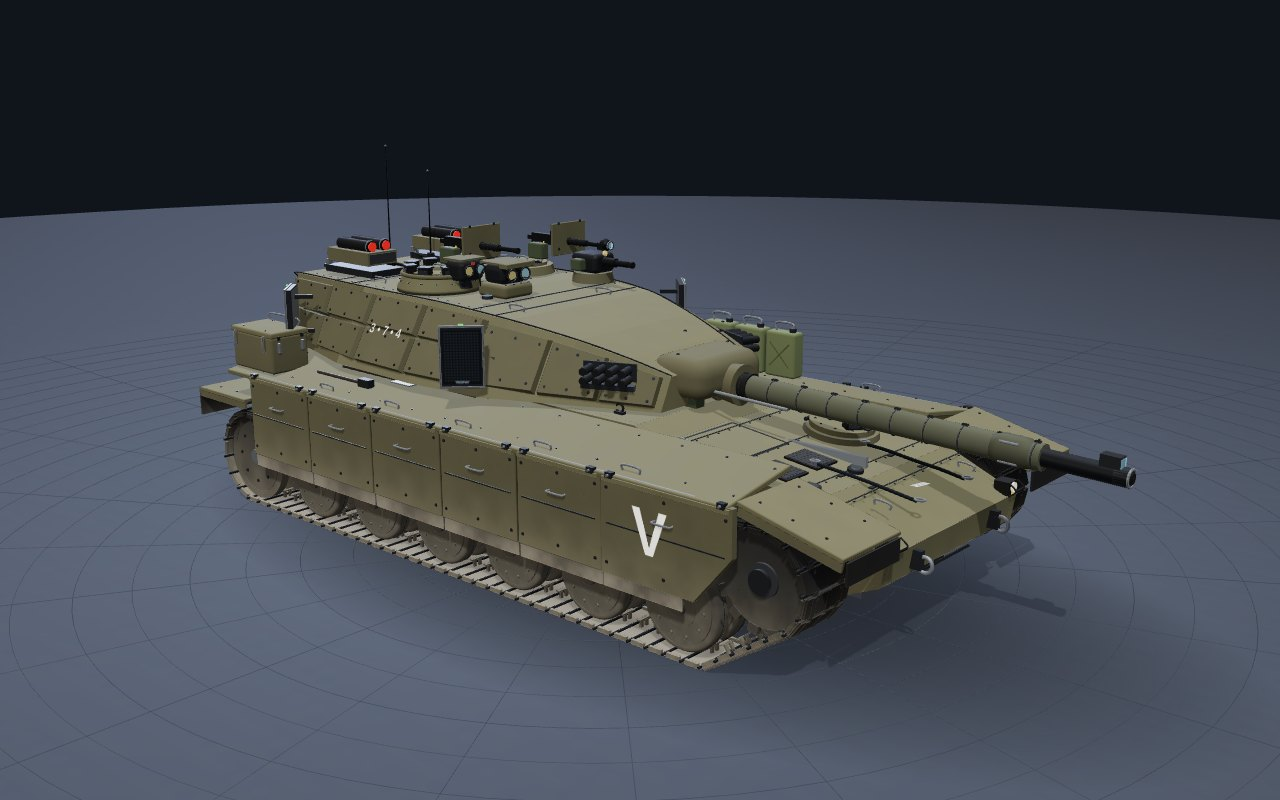
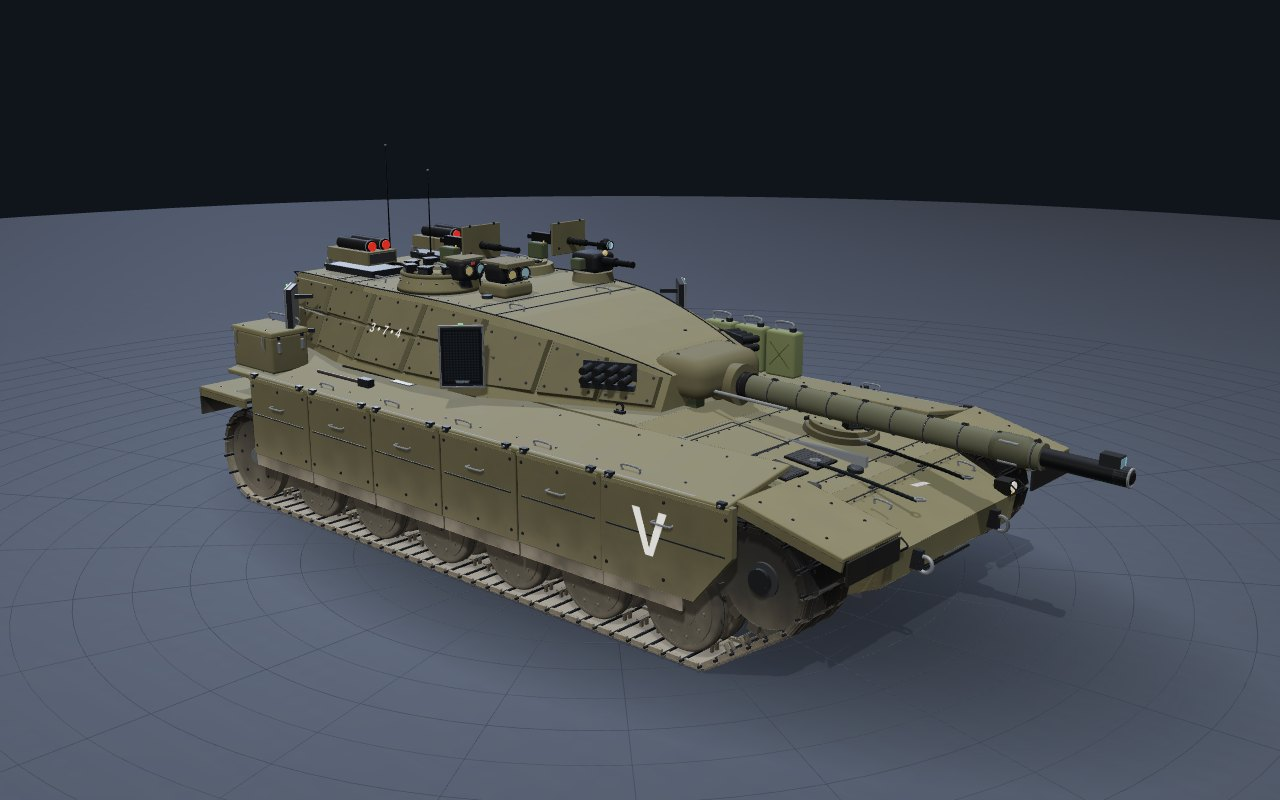
Apply lessons from #004: sanity in build --check, Merkava tracks above ground, Model T steering + patina
- build.py --check runs tools/sanity.cjs per model and fails on stray parts
- Merkava: lift the model root 22 mm so the track pads rest on the ground
- Model T: live steering toggle (king-pin pivot, steering arms, tie rod,
  steering wheel) and a subtle brass patina
- Rules added to boneh-dgamim-3d, BUILD_GUIDE, threejs-qa-release eye-point
  notes and boneh-rechev-vatik-3d; .gitignore ignores __pycache__

Claude-Session: https://claude.ai/code/session_01AYAEj5S5zfL4uA1ZzoS43s

diff --git a/daily-3d-library/index.html b/daily-3d-library/index.html
@@ -63,7 +63,7 @@
   <footer>כל דגם הוא קובץ HTML אחד שנפתח ישר בדפדפן (צריך אינטרנט בשביל three.js). בכל דגם: פירוק לחלקים, חתך, רנטגן, מבטים, ופתיחת דלתות ומכסים. הקוד: <code>daily-3d-library/</code> במאגר.</footer>
 </main>
 <script>
-  const CATALOG = [{"id": "004-ford-model-t", "number": 4, "date": "2026-10-04", "dateHe": "4 באוקטובר 2026", "category": "רכבים", "title": "פורד מודל T", "titleEn": "Ford Model T Touring (1915, brass era)", "subtitle": "המכונית שהכניסה את העולם לכביש · טוריסט 1915 עם רדיאטור פליז ומנוע 20 כוח סוס", "description": "דגם תלת־ממד פרוצדורלי ומפורט של פורד מודל T בגרסת הטוריסט של 1915: רדיאטור פליז עם כיתוב Ford, פנסי פליז, גלגלי עץ בסגנון ארטילריה, מנוע ארבעה צילינדרים עם בוכנות נעות, תמסורת פלנטרית עם שלוש דוושות, מגנטו בגלגל התנופה, קפיצי עלים רוחביים וגג בד מתקפל. אפשר לפתוח את מכסה המנוע, הדלתות האחוריות, להרים את הגג, לקפל את השמשה ולהפעיל את המנוע.", "page": "models/004-ford-model-t/index.html", "thumb": "models/004-ford-model-t/thumb.jpg", "stats": {"parts": 164, "meshes": 509, "triangles": 111998, "buildMs": 244}}, {"id": "003-tesla-model-y", "number": 3, "date": "2026-10-03", "dateHe": "3 באוקטובר 2026", "category": "רכבים", "title": "טסלה מודל Y", "titleEn": "Tesla Model Y (Juniper, 2025)", "subtitle": "רכב הפנאי החשמלי הנמכר בעולם · דור ״ג׳וניפר״ 2025 עם פס האור לרוחב החזית", "description": "דגם תלת־ממד פרוצדורלי ומפורט של טסלה מודל Y החדשה: מרכב קרוסאובר עם גג זכוכית מלא, פסי אור לרוחב החזית והאחור, תא מטען קדמי במקום מנוע, סוללה שטוחה ברצפה עם מאות תאים, שני מנועים חשמליים, מתלים, בלמים, מצלמות האוטופיילוט ותא נוסעים עם מסך מרכזי. אפשר לפתוח דלתות, תא מטען קדמי ואחורי, את דלתית הטעינה ולקפל מושבים.", "page": "models/003-tesla-model-y/index.html", "thumb": "models/003-tesla-model-y/thumb.jpg", "stats": {"parts": 156, "meshes": 479, "triangles": 427465, "buildMs": 938}}, {"id": "002-merkava-mk4m", "number": 2, "date": "2026-10-03", "dateHe": "3 באוקטובר 2026", "category": "רכבים צבאיים", "title": "טנק מרכבה סימן 4M", "titleEn": "Merkava Mk 4M (IDF main battle tank)", "subtitle": "הטנק הראשי של צה״ל · מנוע מלפנים, דלת אחורית ומערכת ההגנה האקטיבית ״מעיל רוח״", "description": "דגם תלת־ממד פרוצדורלי ומפורט של טנק המרכבה סימן 4M: גוף עם מנוע ותמסורת בחזית, צריח טריז ארוך עם שריון מודולרי ווילון שרשראות, תותח חלק 120 מ״מ, מערכת Trophy (״מעיל רוח״) עם מכ״מים ומשגרים, זחלים שרצים בפועל, מתלי קפיצים חיצוניים ותא צוות עם תחמושת ודלת אחורית. אפשר לסובב צריח, להגביה תותח, לפתוח צוהרים ולהרים חצאיות כדי לראות את המתלים.", "page": "models/002-merkava-mk4m/index.html", "thumb": "models/002-merkava-mk4m/thumb.jpg", "stats": {"parts": 258, "meshes": 1225, "triangles": 400316, "buildMs": 667}}, {"id": "001-cadillac-one-the-beast", "number": 1, "date": "2026-10-01", "dateHe": "1 באוקטובר 2026", "category": "רכבים", "title": "קדילק וואן — ״החיה״", "titleEn": "Cadillac One — “The Beast” (2018)", "subtitle": "רכב השרד המשוריין של נשיא ארצות הברית · הדור של 2018", "description": "דגם תלת־ממד פרוצדורלי ומפורט של רכב השרד הנשיאותי האמריקאי: מרכב, דלתות שריון בעובי 20 ס״מ, זכוכית רב־שכבתית, מנוע דיזל V8, שלדת משאית, תא הנשיא ומערכות האבטחה. אפשר לפרק, לחתוך, לראות ברנטגן ולפתוח דלתות.", "page": "models/001-cadillac-one-the-beast/index.html", "thumb": "models/001-cadillac-one-the-beast/thumb.jpg", "stats": {"parts": 246, "meshes": 1151, "triangles": 612682, "buildMs": 1322}}];
+  const CATALOG = [{"id": "004-ford-model-t", "number": 4, "date": "2026-10-04", "dateHe": "4 באוקטובר 2026", "category": "רכבים", "title": "פורד מודל T", "titleEn": "Ford Model T Touring (1915, brass era)", "subtitle": "המכונית שהכניסה את העולם לכביש · טוריסט 1915 עם רדיאטור פליז ומנוע 20 כוח סוס", "description": "דגם תלת־ממד פרוצדורלי ומפורט של פורד מודל T בגרסת הטוריסט של 1915: רדיאטור פליז עם כיתוב Ford, פנסי פליז, גלגלי עץ בסגנון ארטילריה, מנוע ארבעה צילינדרים עם בוכנות נעות, תמסורת פלנטרית עם שלוש דוושות, מגנטו בגלגל התנופה, קפיצי עלים רוחביים וגג בד מתקפל. אפשר לפתוח את מכסה המנוע, הדלתות האחוריות, להרים את הגג, לקפל את השמשה ולהפעיל את המנוע.", "page": "models/004-ford-model-t/index.html", "thumb": "models/004-ford-model-t/thumb.jpg", "stats": {"parts": 166, "meshes": 509, "triangles": 111998, "buildMs": 258}}, {"id": "003-tesla-model-y", "number": 3, "date": "2026-10-03", "dateHe": "3 באוקטובר 2026", "category": "רכבים", "title": "טסלה מודל Y", "titleEn": "Tesla Model Y (Juniper, 2025)", "subtitle": "רכב הפנאי החשמלי הנמכר בעולם · דור ״ג׳וניפר״ 2025 עם פס האור לרוחב החזית", "description": "דגם תלת־ממד פרוצדורלי ומפורט של טסלה מודל Y החדשה: מרכב קרוסאובר עם גג זכוכית מלא, פסי אור לרוחב החזית והאחור, תא מטען קדמי במקום מנוע, סוללה שטוחה ברצפה עם מאות תאים, שני מנועים חשמליים, מתלים, בלמים, מצלמות האוטופיילוט ותא נוסעים עם מסך מרכזי. אפשר לפתוח דלתות, תא מטען קדמי ואחורי, את דלתית הטעינה ולקפל מושבים.", "page": "models/003-tesla-model-y/index.html", "thumb": "models/003-tesla-model-y/thumb.jpg", "stats": {"parts": 156, "meshes": 479, "triangles": 427465, "buildMs": 1123}}, {"id": "002-merkava-mk4m", "number": 2, "date": "2026-10-03", "dateHe": "3 באוקטובר 2026", "category": "רכבים צבאיים", "title": "טנק מרכבה סימן 4M", "titleEn": "Merkava Mk 4M (IDF main battle tank)", "subtitle": "הטנק הראשי של צה״ל · מנוע מלפנים, דלת אחורית ומערכת ההגנה האקטיבית ״מעיל רוח״", "description": "דגם תלת־ממד פרוצדורלי ומפורט של טנק המרכבה סימן 4M: גוף עם מנוע ותמסורת בחזית, צריח טריז ארוך עם שריון מודולרי ווילון שרשראות, תותח חלק 120 מ״מ, מערכת Trophy (״מעיל רוח״) עם מכ״מים ומשגרים, זחלים שרצים בפועל, מתלי קפיצים חיצוניים ותא צוות עם תחמושת ודלת אחורית. אפשר לסובב צריח, להגביה תותח, לפתוח צוהרים ולהרים חצאיות כדי לראות את המתלים.", "page": "models/002-merkava-mk4m/index.html", "thumb": "models/002-merkava-mk4m/thumb.jpg", "stats": {"parts": 258, "meshes": 1225, "triangles": 400316, "buildMs": 696}}, {"id": "001-cadillac-one-the-beast", "number": 1, "date": "2026-10-01", "dateHe": "1 באוקטובר 2026", "category": "רכבים", "title": "קדילק וואן — ״החיה״", "titleEn": "Cadillac One — “The Beast” (2018)", "subtitle": "רכב השרד המשוריין של נשיא ארצות הברית · הדור של 2018", "description": "דגם תלת־ממד פרוצדורלי ומפורט של רכב השרד הנשיאותי האמריקאי: מרכב, דלתות שריון בעובי 20 ס״מ, זכוכית רב־שכבתית, מנוע דיזל V8, שלדת משאית, תא הנשיא ומערכות האבטחה. אפשר לפרק, לחתוך, לראות ברנטגן ולפתוח דלתות.", "page": "models/001-cadillac-one-the-beast/index.html", "thumb": "models/001-cadillac-one-the-beast/thumb.jpg", "stats": {"parts": 246, "meshes": 1151, "triangles": 612682, "buildMs": 1129}}];
   const QUEUE = [{"slug": "volkswagen-beetle", "he": "פולקסווגן חיפושית", "en": "Volkswagen Beetle (1963)"}, {"slug": "ferrari-f40", "he": "פרארי F40", "en": "Ferrari F40 (1987)"}, {"slug": "mercedes-300sl-gullwing", "he": "מרצדס 300SL ״כנפי שחף״", "en": "Mercedes-Benz 300 SL Gullwing (1954)"}, {"slug": "jeep-willys-mb", "he": "ג׳יפ וויליס", "en": "Willys MB Jeep (1942)"}, {"slug": "lamborghini-countach", "he": "למבורגיני קונטאש", "en": "Lamborghini Countach LP400 (1974)"}, {"slug": "porsche-911-carrera", "he": "פורשה 911 קאררה", "en": "Porsche 911 Carrera (964, 1989)"}];
   const esc = (s) => String(s ?? '').replace(/[&<>"]/g, (c) => ({ '&': '&amp;', '<': '&lt;', '>': '&gt;', '"': '&quot;' }[c]));
   document.getElementById('n').textContent = CATALOG.length;

diff --git a/daily-3d-library/models/004-ford-model-t/index.html b/daily-3d-library/models/004-ford-model-t/index.html
@@ -739,14 +739,19 @@ window.L3D_MODEL = {
     const AXF = 1.27, AXR = -1.27, TR = 0.381, WZ = 0.711;     // wheelbase 2.54 m (100 in), track 1.42 m (56 in)
     const FRAME_Y = 0.58, FLOOR = 0.70, BZ = 0.575, BELT = 1.06;
     const BLACK = new THREE.MeshPhysicalMaterial({ color: 0x0a0a0b, metalness: 0.1, roughness: 0.32, clearcoat: 1, clearcoatRoughness: 0.08, side: THREE.DoubleSide, name: 'לכה שחורה (ג׳פאן)' }), BLACKM = M.paintFlat(0x0c0c0d, 0.5);
-    const BRASS = M.brass(), BRASSD = (() => { const m = M.brass().clone(); m.color.setHex(0xb98f3a); m.roughness = 0.42; return m; })();
+    // brass with a light patina: darker, slightly green blotches and rougher spots where polish never reaches
+    const patina = (seed, k) => K.canvasTexture(256, 256, (g, w, h) => { const r = K.rng(seed); g.fillStyle = '#fff'; g.fillRect(0, 0, w, h); for (let i = 0; i < 70; i++) { const x = r() * w, y = r() * h, rad = 6 + r() * 26, gr = g.createRadialGradient(x, y, 0, x, y, rad); const a = (0.02 + r() * 0.05) * k; gr.addColorStop(0, `rgba(92,104,70,${a})`); gr.addColorStop(1, 'rgba(92,104,70,0)'); g.fillStyle = gr; g.fillRect(x - rad, y - rad, rad * 2, rad * 2); } for (let i = 0; i < 900; i++) { g.fillStyle = `rgba(60,48,20,${0.025 * k})`; g.fillRect(r() * w, r() * h, 1 + r() * 2, 1); } }, { repeat: [2, 2] });
+    const roughMap = K.canvasTexture(256, 256, (g, w, h) => { const r = K.rng(77); g.fillStyle = '#6a6a6a'; g.fillRect(0, 0, w, h); for (let i = 0; i < 90; i++) { const x = r() * w, y = r() * h, rad = 3 + r() * 18, gr = g.createRadialGradient(x, y, 0, x, y, rad); gr.addColorStop(0, `rgba(170,170,170,${0.15 + r() * 0.2})`); gr.addColorStop(1, 'rgba(230,230,230,0)'); g.fillStyle = gr; g.fillRect(x - rad, y - rad, rad * 2, rad * 2); } }, { linear: true, repeat: [2, 2] });
+    const BRASS = (() => { const m = M.brass().clone(); m.map = patina(11, 1); m.roughnessMap = roughMap; m.roughness = 0.42; m.name = 'פליז עם פטינה קלה'; return m; })();
+    const BRASSD = (() => { const m = M.brass().clone(); m.color.setHex(0xb98f3a); m.map = patina(23, 1.6); m.roughnessMap = roughMap; m.roughness = 0.55; m.name = 'פליז מוכהה'; return m; })();
     const STEEL = M.steel(), DSTEEL = M.darkSteel(), CAST = M.castIron();
     const IRON = M.metal(0x1d1e21, 0.5);
     const SHEET = dbl(M.metal(0x131315, 0.4));
     const woodNat = (() => { const m = new THREE.MeshStandardMaterial({ color: 0x101012, roughness: 0.4, metalness: 0, bumpMap: K.noiseTexture(256, 'fabric'), bumpScale: 0.3, name: 'עץ היקורי צבוע שחור' }); return m; })();
     const woodDark = new THREE.MeshStandardMaterial({ color: 0x4a2c16, roughness: 0.6, bumpMap: K.noiseTexture(256, 'leather'), bumpScale: 0.3, name: 'עץ אפר' });
     const fabricTop = new THREE.MeshStandardMaterial({ color: 0x17171a, roughness: 0.95, side: THREE.DoubleSide, bumpMap: K.noiseTexture(256, 'fabric'), bumpScale: 0.6, name: 'בד גג מגומם' });
-    const spinners = [];
+    const spinners = [], steerGroups = [];
+    let steerWheel = null, steerLink = null;
 
     // ================================================================== WHEELS
     const wheelsSys = sys('wheels');
@@ -765,7 +770,16 @@ window.L3D_MODEL = {
         const tw = w.front ? 1.0 : 1.17;
         const wp = part(wheelsSys, { he: `גלגל ${name}`, en: `${en} wheel`, mat: 'עץ היקורי + חישוק פלדה + צמיג', desc: `גלגל ארטילריה מעץ עם 12 חישורים, ${w.front ? 'צמיג 30×3 קדמי' : 'צמיג 30×3½ אחורי רחב יותר'}. את הגלגל בנו כמו עגלה: חישורי עץ היקורי שנדחסים לתוך נבות וחישוק.` });
         wp.position.set(w.x, TR, w.s * WZ); if (w.s < 0) wp.rotation.y = PI;
-        const spin = new THREE.Group(); wp.add(spin); spinners.push({ o: spin, s: w.s });
+        let hold = wp;
+        if (w.front) { // steer group at the king pin (13 cm inboard of the wheel centre, local -z is inboard on both sides)
+          const kp = new THREE.Group(); kp.position.set(0, 0, -(WZ - 0.58)); wp.add(kp);
+          hold = new THREE.Group(); hold.position.set(0, 0, WZ - 0.58); kp.add(hold); steerGroups.push(kp);
+          // steering arm turns with the wheel; in wp-local space the world arm (-0.12, 0.03, s·0.06) becomes (-0.12·s, 0.03, 0.06)
+          const arm = P(kp, `זרוע היגוי ${name}`, `${en} steering arm`, 'פלדה מחושלת', 'זרוע קצרה שיוצאת אחורה מהציפורן. מוט החיבור מושך אותה, והיא מסובבת את הגלגל על הקינגפין.');
+          arm.userData.sysOverride = 'chassis';
+          rod(arm, [0, 0, 0], [-0.12 * w.s, 0.03, 0.06], 0.011, IRON);
+        }
+        const spin = new THREE.Group(); hold.add(spin); spinners.push({ o: spin, s: w.s });
         const tire = part(spin, { he: `צמיג ${name}`, en: `${en} tyre`, mat: 'גומי מוואלקן + בד, 30×3' + (w.front ? '' : '½'), desc: 'צמיג קלינצ׳ר (נכנס לתוך שפת החישוק) עם שתי שכבות בד, שפופרת פנימית וכיתוב מידה על הדופן. נתקע לעיתים קרובות — מנהגים נסעו עם ערכת תיקון.' });
         mesh(G.torus(0.343, 0.038, 14, 64, PI * 2, 'z'), M.tire(), { parent: tire, scale: [1, 1, tw] });
         if (w.front) for (const z of [-0.016, 0.016]) mesh(G.torus(0.3805, 0.0018, 4, 64, PI * 2, 'z'), M.black(), { parent: tire, pos: [0, 0, z], cast: false });
@@ -1022,7 +1036,7 @@ window.L3D_MODEL = {
     {
       const sw = P(inter, 'הגה', 'Steering wheel', 'עץ שחור + ספיידר פליז', 'חישוק עץ בקוטר 40 ס״מ על ארבעה חישורי פלדה. במרכז ה״ספיידר״: ידיות ההצתה והמצערת.');
       sw.position.set(0.52, 1.12, -0.28); sw.rotation.z = -Math.atan2(0.78 - 1.12, 0.9 - 0.52) * -1; // wheel axis = column direction (forward-down, ~42°)
-      const swg = new THREE.Group(); swg.rotation.y = PI / 2; sw.add(swg);
+      const swg = new THREE.Group(); swg.rotation.y = PI / 2; sw.add(swg); steerWheel = swg;
       mesh(G.torus(0.19, 0.016, 12, 56), woodDark, { parent: swg });
       for (let k = 0; k < 4; k++) { const a = k * PI / 2 + PI / 4; rod(swg, [Math.cos(a) * 0.02, Math.sin(a) * 0.02, 0], [Math.cos(a) * 0.185, Math.sin(a) * 0.185, 0], 0.006, M.darkSteel()); }
       mesh(G.cyl(0.03, 0.03, 0.03, 20, 'z'), BRASS, { parent: swg });
@@ -1142,9 +1156,8 @@ window.L3D_MODEL = {
         const sp = P(ch, `ציפורן היגוי ${sideHe(s)}`, `Steering spindle ${sideEn(s)}`, 'פלדה מחושלת', 'בולט שפונה החוצה: עליו נסמך הגלגל. הוא מסתובב על ציר אנכי (קינגפין) כשהנהג מפנה את ההגה.');
         put(G.cyl(0.025, 0.02, 0.1, 14, 'z'), STEEL, sp, [AXF, TR, s * 0.62]);
         put(G.cyl(0.015, 0.015, 0.15, 10, 'y'), DSTEEL, sp, [AXF, TR + 0.03, s * 0.58]); put(G.cyl(0.026, 0.026, 0.02, 12, 'y'), BRASS, sp, [AXF, TR + 0.105, s * 0.58]);
-        rod(sp, [AXF - 0.0, TR + 0.0, s * 0.58], [AXF - 0.12, TR + 0.03, s * 0.64], 0.011, IRON);
       }
-      const tr = P(ch, 'מוט חיבור (טיירוד)', 'Tie rod', 'פלדה', 'מוט שמחבר את שני ציפורני הגלגלים כדי שיתכנסו יחד. אורכו נקבע בכיוון הידיני.');
+      const tr = steerLink = P(ch, 'מוט חיבור (טיירוד)', 'Tie rod', 'פלדה', 'מוט שמחבר את שני ציפורני הגלגלים כדי שיתכנסו יחד. אורכו נקבע בכיוון הידיני.');
       rod(tr, [AXF - 0.12, TR + 0.03, -0.64], [AXF - 0.12, TR + 0.03, 0.64], 0.011, IRON); for (const s of [1, -1]) put(G.sphere(0.017, 10, 8), STEEL, tr, [AXF - 0.12, TR + 0.03, s * 0.64]);
       const dl = P(ch, 'מוט היגוי (דראג־לינק)', 'Drag link', 'פלדה', 'מוט ארוך מזרוע פיטמן בתיבת ההיגוי אל הציפורן השמאלי, שדרכו הכיוון עובר לשני הגלגלים.');
       rod(dl, [0.93, 0.66, -0.3], [AXF - 0.12, TR + 0.03, -0.64], 0.01, IRON); put(G.sphere(0.014, 8, 6), STEEL, dl, [0.93, 0.66, -0.3]);
@@ -1295,6 +1308,16 @@ window.L3D_MODEL = {
       const axs = P(dt, 'סרנים (2)', 'Axle shafts (×2)', 'פלדה', 'שני סרנים בתוך בית הציר שמעבירים כוח מהדיפרנציאל לגלגלים.');
       for (const s of [1, -1]) rod(axs, [AXR, TR, s * 0.1], [AXR, TR, s * 0.7], 0.022, STEEL);
     }
+    // ================================================================== STEERING (live)
+    // a turn to the left: the steering wheel goes ~4 turns-worth of the 4:1 planetary ratio scaled down,
+    // the front wheels pivot on their king pins and the tie rod slides across with the steering arms
+    K.toggle('steer', { he: 'היגוי', key: 's', seconds: 1.2 }, (t) => {
+      const th = 0.42 * Math.sin(t * PI / 2);
+      for (const g of steerGroups) g.rotation.y = th;
+      if (steerWheel) steerWheel.rotation.z = th * 4;
+      if (steerLink) steerLink.position.z = Math.sin(th) * 0.12;
+    });
+
     // ================================================================== ENGINE ANIMATION
     let engineSpeed = 0, crankAngle = 0;
     const setEngine = () => {

diff --git a/daily-3d-library/models/004-ford-model-t/model.js b/daily-3d-library/models/004-ford-model-t/model.js
@@ -36,14 +36,19 @@ window.L3D_MODEL = {
     const AXF = 1.27, AXR = -1.27, TR = 0.381, WZ = 0.711;     // wheelbase 2.54 m (100 in), track 1.42 m (56 in)
     const FRAME_Y = 0.58, FLOOR = 0.70, BZ = 0.575, BELT = 1.06;
     const BLACK = new THREE.MeshPhysicalMaterial({ color: 0x0a0a0b, metalness: 0.1, roughness: 0.32, clearcoat: 1, clearcoatRoughness: 0.08, side: THREE.DoubleSide, name: 'לכה שחורה (ג׳פאן)' }), BLACKM = M.paintFlat(0x0c0c0d, 0.5);
-    const BRASS = M.brass(), BRASSD = (() => { const m = M.brass().clone(); m.color.setHex(0xb98f3a); m.roughness = 0.42; return m; })();
+    // brass with a light patina: darker, slightly green blotches and rougher spots where polish never reaches
+    const patina = (seed, k) => K.canvasTexture(256, 256, (g, w, h) => { const r = K.rng(seed); g.fillStyle = '#fff'; g.fillRect(0, 0, w, h); for (let i = 0; i < 70; i++) { const x = r() * w, y = r() * h, rad = 6 + r() * 26, gr = g.createRadialGradient(x, y, 0, x, y, rad); const a = (0.02 + r() * 0.05) * k; gr.addColorStop(0, `rgba(92,104,70,${a})`); gr.addColorStop(1, 'rgba(92,104,70,0)'); g.fillStyle = gr; g.fillRect(x - rad, y - rad, rad * 2, rad * 2); } for (let i = 0; i < 900; i++) { g.fillStyle = `rgba(60,48,20,${0.025 * k})`; g.fillRect(r() * w, r() * h, 1 + r() * 2, 1); } }, { repeat: [2, 2] });
+    const roughMap = K.canvasTexture(256, 256, (g, w, h) => { const r = K.rng(77); g.fillStyle = '#6a6a6a'; g.fillRect(0, 0, w, h); for (let i = 0; i < 90; i++) { const x = r() * w, y = r() * h, rad = 3 + r() * 18, gr = g.createRadialGradient(x, y, 0, x, y, rad); gr.addColorStop(0, `rgba(170,170,170,${0.15 + r() * 0.2})`); gr.addColorStop(1, 'rgba(230,230,230,0)'); g.fillStyle = gr; g.fillRect(x - rad, y - rad, rad * 2, rad * 2); } }, { linear: true, repeat: [2, 2] });
+    const BRASS = (() => { const m = M.brass().clone(); m.map = patina(11, 1); m.roughnessMap = roughMap; m.roughness = 0.42; m.name = 'פליז עם פטינה קלה'; return m; })();
+    const BRASSD = (() => { const m = M.brass().clone(); m.color.setHex(0xb98f3a); m.map = patina(23, 1.6); m.roughnessMap = roughMap; m.roughness = 0.55; m.name = 'פליז מוכהה'; return m; })();
     const STEEL = M.steel(), DSTEEL = M.darkSteel(), CAST = M.castIron();
     const IRON = M.metal(0x1d1e21, 0.5);
     const SHEET = dbl(M.metal(0x131315, 0.4));
     const woodNat = (() => { const m = new THREE.MeshStandardMaterial({ color: 0x101012, roughness: 0.4, metalness: 0, bumpMap: K.noiseTexture(256, 'fabric'), bumpScale: 0.3, name: 'עץ היקורי צבוע שחור' }); return m; })();
     const woodDark = new THREE.MeshStandardMaterial({ color: 0x4a2c16, roughness: 0.6, bumpMap: K.noiseTexture(256, 'leather'), bumpScale: 0.3, name: 'עץ אפר' });
     const fabricTop = new THREE.MeshStandardMaterial({ color: 0x17171a, roughness: 0.95, side: THREE.DoubleSide, bumpMap: K.noiseTexture(256, 'fabric'), bumpScale: 0.6, name: 'בד גג מגומם' });
-    const spinners = [];
+    const spinners = [], steerGroups = [];
+    let steerWheel = null, steerLink = null;
 
     // ================================================================== WHEELS
     const wheelsSys = sys('wheels');
@@ -62,7 +67,16 @@ window.L3D_MODEL = {
         const tw = w.front ? 1.0 : 1.17;
         const wp = part(wheelsSys, { he: `גלגל ${name}`, en: `${en} wheel`, mat: 'עץ היקורי + חישוק פלדה + צמיג', desc: `גלגל ארטילריה מעץ עם 12 חישורים, ${w.front ? 'צמיג 30×3 קדמי' : 'צמיג 30×3½ אחורי רחב יותר'}. את הגלגל בנו כמו עגלה: חישורי עץ היקורי שנדחסים לתוך נבות וחישוק.` });
         wp.position.set(w.x, TR, w.s * WZ); if (w.s < 0) wp.rotation.y = PI;
-        const spin = new THREE.Group(); wp.add(spin); spinners.push({ o: spin, s: w.s });
+        let hold = wp;
+        if (w.front) { // steer group at the king pin (13 cm inboard of the wheel centre, local -z is inboard on both sides)
+          const kp = new THREE.Group(); kp.position.set(0, 0, -(WZ - 0.58)); wp.add(kp);
+          hold = new THREE.Group(); hold.position.set(0, 0, WZ - 0.58); kp.add(hold); steerGroups.push(kp);
+          // steering arm turns with the wheel; in wp-local space the world arm (-0.12, 0.03, s·0.06) becomes (-0.12·s, 0.03, 0.06)
+          const arm = P(kp, `זרוע היגוי ${name}`, `${en} steering arm`, 'פלדה מחושלת', 'זרוע קצרה שיוצאת אחורה מהציפורן. מוט החיבור מושך אותה, והיא מסובבת את הגלגל על הקינגפין.');
+          arm.userData.sysOverride = 'chassis';
+          rod(arm, [0, 0, 0], [-0.12 * w.s, 0.03, 0.06], 0.011, IRON);
+        }
+        const spin = new THREE.Group(); hold.add(spin); spinners.push({ o: spin, s: w.s });
         const tire = part(spin, { he: `צמיג ${name}`, en: `${en} tyre`, mat: 'גומי מוואלקן + בד, 30×3' + (w.front ? '' : '½'), desc: 'צמיג קלינצ׳ר (נכנס לתוך שפת החישוק) עם שתי שכבות בד, שפופרת פנימית וכיתוב מידה על הדופן. נתקע לעיתים קרובות — מנהגים נסעו עם ערכת תיקון.' });
         mesh(G.torus(0.343, 0.038, 14, 64, PI * 2, 'z'), M.tire(), { parent: tire, scale: [1, 1, tw] });
         if (w.front) for (const z of [-0.016, 0.016]) mesh(G.torus(0.3805, 0.0018, 4, 64, PI * 2, 'z'), M.black(), { parent: tire, pos: [0, 0, z], cast: false });
@@ -319,7 +333,7 @@ window.L3D_MODEL = {
     {
       const sw = P(inter, 'הגה', 'Steering wheel', 'עץ שחור + ספיידר פליז', 'חישוק עץ בקוטר 40 ס״מ על ארבעה חישורי פלדה. במרכז ה״ספיידר״: ידיות ההצתה והמצערת.');
       sw.position.set(0.52, 1.12, -0.28); sw.rotation.z = -Math.atan2(0.78 - 1.12, 0.9 - 0.52) * -1; // wheel axis = column direction (forward-down, ~42°)
-      const swg = new THREE.Group(); swg.rotation.y = PI / 2; sw.add(swg);
+      const swg = new THREE.Group(); swg.rotation.y = PI / 2; sw.add(swg); steerWheel = swg;
       mesh(G.torus(0.19, 0.016, 12, 56), woodDark, { parent: swg });
       for (let k = 0; k < 4; k++) { const a = k * PI / 2 + PI / 4; rod(swg, [Math.cos(a) * 0.02, Math.sin(a) * 0.02, 0], [Math.cos(a) * 0.185, Math.sin(a) * 0.185, 0], 0.006, M.darkSteel()); }
       mesh(G.cyl(0.03, 0.03, 0.03, 20, 'z'), BRASS, { parent: swg });
@@ -439,9 +453,8 @@ window.L3D_MODEL = {
         const sp = P(ch, `ציפורן היגוי ${sideHe(s)}`, `Steering spindle ${sideEn(s)}`, 'פלדה מחושלת', 'בולט שפונה החוצה: עליו נסמך הגלגל. הוא מסתובב על ציר אנכי (קינגפין) כשהנהג מפנה את ההגה.');
         put(G.cyl(0.025, 0.02, 0.1, 14, 'z'), STEEL, sp, [AXF, TR, s * 0.62]);
         put(G.cyl(0.015, 0.015, 0.15, 10, 'y'), DSTEEL, sp, [AXF, TR + 0.03, s * 0.58]); put(G.cyl(0.026, 0.026, 0.02, 12, 'y'), BRASS, sp, [AXF, TR + 0.105, s * 0.58]);
-        rod(sp, [AXF - 0.0, TR + 0.0, s * 0.58], [AXF - 0.12, TR + 0.03, s * 0.64], 0.011, IRON);
       }
-      const tr = P(ch, 'מוט חיבור (טיירוד)', 'Tie rod', 'פלדה', 'מוט שמחבר את שני ציפורני הגלגלים כדי שיתכנסו יחד. אורכו נקבע בכיוון הידיני.');
+      const tr = steerLink = P(ch, 'מוט חיבור (טיירוד)', 'Tie rod', 'פלדה', 'מוט שמחבר את שני ציפורני הגלגלים כדי שיתכנסו יחד. אורכו נקבע בכיוון הידיני.');
       rod(tr, [AXF - 0.12, TR + 0.03, -0.64], [AXF - 0.12, TR + 0.03, 0.64], 0.011, IRON); for (const s of [1, -1]) put(G.sphere(0.017, 10, 8), STEEL, tr, [AXF - 0.12, TR + 0.03, s * 0.64]);
       const dl = P(ch, 'מוט היגוי (דראג־לינק)', 'Drag link', 'פלדה', 'מוט ארוך מזרוע פיטמן בתיבת ההיגוי אל הציפורן השמאלי, שדרכו הכיוון עובר לשני הגלגלים.');
       rod(dl, [0.93, 0.66, -0.3], [AXF - 0.12, TR + 0.03, -0.64], 0.01, IRON); put(G.sphere(0.014, 8, 6), STEEL, dl, [0.93, 0.66, -0.3]);
@@ -592,6 +605,16 @@ window.L3D_MODEL = {
       const axs = P(dt, 'סרנים (2)', 'Axle shafts (×2)', 'פלדה', 'שני סרנים בתוך בית הציר שמעבירים כוח מהדיפרנציאל לגלגלים.');
       for (const s of [1, -1]) rod(axs, [AXR, TR, s * 0.1], [AXR, TR, s * 0.7], 0.022, STEEL);
     }
+    // ================================================================== STEERING (live)
+    // a turn to the left: the steering wheel goes ~4 turns-worth of the 4:1 planetary ratio scaled down,
+    // the front wheels pivot on their king pins and the tie rod slides across with the steering arms
+    K.toggle('steer', { he: 'היגוי', key: 's', seconds: 1.2 }, (t) => {
+      const th = 0.42 * Math.sin(t * PI / 2);
+      for (const g of steerGroups) g.rotation.y = th;
+      if (steerWheel) steerWheel.rotation.z = th * 4;
+      if (steerLink) steerLink.position.z = Math.sin(th) * 0.12;
+    });
+
     // ================================================================== ENGINE ANIMATION
     let engineSpeed = 0, crankAngle = 0;
     const setEngine = () => {

diff --git a/daily-3d-library/models/002-merkava-mk4m/index.html b/daily-3d-library/models/002-merkava-mk4m/index.html
@@ -1838,6 +1838,10 @@ window.L3D_MODEL = {
     K.toggle('lights', { he: 'פנסים', key: 'l', seconds: 0.4, night: true }, (t) => { L.head.emissiveIntensity = 0.05 + t * 3; L.red.emissiveIntensity = 0.05 + t * 2; L.cabin.emissiveIntensity = 0.05 + t * 2.5; });
     K.onFrame((time, dt) => { if (speed > 0.001) { travel += speed * dt; K.__updateTracks(); } });
     K.__updateTracks();
+    // The track pads hang 52 mm below the link pivots and the bottom run sits at y = 0.03, so the pads
+    // went 22 mm into the ground (found by tools/sanity.cjs). Lift the whole model instead of the
+    // sprung system groups, which the firing rock (rockSet) positions absolutely.
+    sys('hull').parent.position.y = 0.022;
   },
 };
 

diff --git a/daily-3d-library/models/002-merkava-mk4m/model.js b/daily-3d-library/models/002-merkava-mk4m/model.js
@@ -1135,5 +1135,9 @@ window.L3D_MODEL = {
     K.toggle('lights', { he: 'פנסים', key: 'l', seconds: 0.4, night: true }, (t) => { L.head.emissiveIntensity = 0.05 + t * 3; L.red.emissiveIntensity = 0.05 + t * 2; L.cabin.emissiveIntensity = 0.05 + t * 2.5; });
     K.onFrame((time, dt) => { if (speed > 0.001) { travel += speed * dt; K.__updateTracks(); } });
     K.__updateTracks();
+    // The track pads hang 52 mm below the link pivots and the bottom run sits at y = 0.03, so the pads
+    // went 22 mm into the ground (found by tools/sanity.cjs). Lift the whole model instead of the
+    // sprung system groups, which the firing rock (rockSet) positions absolutely.
+    sys('hull').parent.position.y = 0.022;
   },
 };

diff --git a/daily-3d-library/build.py b/daily-3d-library/build.py
@@ -9,7 +9,7 @@ tools/check.cjs has produced one).
 
     python3 build.py            # build every model + gallery
     python3 build.py <id>       # build one model + gallery
-    python3 build.py --check    # build, then render + screenshot + stats every model (needs Playwright)
+    python3 build.py --check    # build, then render + screenshot + stats every model + tools/sanity.cjs (needs Playwright)
 """
 import html
 import json
@@ -97,6 +97,18 @@ def main(argv):
         build_model(d)
     if check:
         subprocess.run(["node", str(ROOT / "tools" / "check.cjs"), *[d.name for d in targets]], check=True)
+        # geometric sanity: stray parts (touching nothing) and parts below ground fail the check
+        bad = []
+        for d in targets:
+            r = subprocess.run(["node", str(ROOT / "tools" / "sanity.cjs"), d.name], capture_output=True, text=True)
+            lines = [l for l in r.stdout.splitlines() if l.lstrip().startswith("✗") or l.startswith(("STRAY", "BELOW", "ERR"))]
+            if r.returncode != 0:
+                bad.append(d.name)
+                print(f"  FAIL sanity {d.name}:\n    " + "\n    ".join(lines or [r.stderr.strip()[-400:]]))
+            else:
+                print(f"  ok   sanity {d.name}: no stray parts, nothing below ground")
+        if bad:
+            sys.exit("sanity check failed: " + ", ".join(bad))
     build_gallery([entry(d) for d in dirs])
 
 

diff --git a/.claude/skills/boneh-dgamim-3d/SKILL.md b/.claude/skills/boneh-dgamim-3d/SKILL.md
@@ -57,12 +57,18 @@ description: "בונה דגם תלת־ממד מפורט של חפץ אמיתי (
 - **`G.extrude` עם bevel מגדיל את קו המתאר.** השתמש ב־`bevelOffset: -bevel` כשחלקים אחרים ממוקמים צמוד לקו המתאר הזה (לוח המחוונים ״קבר״ פעם את המסכים שלו).
 - **צבע כהה דורש סטודיו כהה.** סביבת חדר בהירה הפכה פעם את השחור ללבן.
 - **אור שנדלק צריך חומר משלו**, ולא חומר מהמטמון של `M.*`, אחרת כל מה שמשתף את החומר נדלק יחד.
+- **אסור לתת `scale` לרשת שהגיאומטריה שלה לא ממורכזת סביב הראשית.** במודל T הקפיצים נבנו ב־x = 1.4 ונמתחו פי 3.2 ב־x, ו״עפו״ 3 מטרים מהרכב. בונים ב־0, מציבים עם `pos` ורק אז מותחים.
+- **כיוון של הגה, ידית או כפתור נגזר מוקטור הציר שלו**, לא מזווית שמקלידים ביד. ההגה במודל T היה מוטה +45° במקום −42°, והעמוד עבר במישור שלו. בודקים בצילום צד טהור.
+- **כיוון פתיחה של ציר נבדק במספרים.** מכסה המנוע במודל T נפתח פנימה פעמיים בגלל טעות סימן. `tools/sanity.cjs` מדפיס לכל מתג אילו חלקים זזים ולאן.
+- **כיתוב נבדק מהמקום שבו אדם קורא אותו**: ממושב הנהג, מול הלוחית, מול השעון. ״Ford״ על השטיח נראה הפוך ובמראה מהמושב.
+- **כל דבר לא מזוהה בצילום, מזהים לפני שממשיכים.** את הקפיצים המרחפים ראיתי בצילומי הבדיקה וחשבתי שהם קישוט של הסטודיו.
 - **תקציב:** עד 700 אלף משולשים ועד 1,500 רשתות. כל קופסה מעוגלת עולה כ־600 משולשים, ולכן לחלקים שחוזרים עשרות פעמים משתמשים ב־`BoxGeometry` או ב־`instances`. כשהמספרים עולים, הפעל סקריפט שמראה איזה חלק ״אוכל״ הכי הרבה משולשים.
 
 ## בדיקה מנקודת המבט של אדם
 
 מבט כללי לא מספיק. כל הבעיות שהמשתמש מצא היו בתקריב. לכל דגם:
 
+1. `node tools/sanity.cjs <id>` (רץ גם בתוך `build.py --check`): חלקים מרחפים (שלא נוגעים בשום חלק אחר), חלקים מתחת לקרקע, ומה זז בכל מתג. חייב לעבור לפני שמסתכלים בצילומים.
 1. `node tools/check.cjs --qa <id>` מייצר צילומים מכל הכיוונים, בפירוק, ברנטגן, בחתך, במצב פתוח ובלילה, ומכל המבטים שהוגדרו. **קרא כל צילום בעצמך.**
 2. צלם מנקודות עין: מושב הנהג או המפקד, תא הנוסעים, תקריב של גלגל או זחל, תקריב של לוח מכשירים, וחתך דרך תא האדם. השתמש בסקריפט צילום מותאם עם מצלמה ספציפית.
 3. רשימת בדיקה:
@@ -96,4 +102,5 @@ description: "בונה דגם תלת־ממד מפורט של חפץ אמיתי (
 
 - `references/anatomy-checklists.md`: מה חייב להופיע בכל סוג חפץ.
 - `references/next-level.md`: רעיונות לשיפור האיכות, מסודרים לפי השפעה.
+- סקיל משלים לרכבים ותיקים (כנפיים, חישורים, פליז, גג בד): `boneh-rechev-vatik-3d`.
 - הספרייה עצמה: `daily-3d-library/` (`BUILD_GUIDE.md`, `engine/`, `models/001-…` כדוגמת ייחוס).

diff --git a/wiki/daily-3d-library.md b/wiki/daily-3d-library.md
@@ -70,3 +70,5 @@ A library that grows by one procedurally-modelled object a day, starting with ca
 - **2026-10-04, #003 round 3 (front + rear from photos):** front-view comparison against a head-on Juniper photo. Rounded superellipse nose plan with extra x-columns at the tip (`noseBreaks`, uniform steps in half-width). Lights sit on fixed section lines just under the hood lip (`lineAt(z, v)` = bisection on x at constant v), not on height-based `vAtY` (it clamps above the shoulder). Tail tapered to a 0.68 m half-width; the upper tail lamps moved onto the liftgate. Now 156 parts, ~427K triangles. Pitfalls: (1) fixed insets (`w - 0.03`, `w - 0.14`, ...) make the section cross z = 0 where `W(x)` gets small, which shows as grey patches and a streak at the nose tip, so scale insets with `clamp(w / 0.35)`; (2) a forward rake as `x - f(y)` folds the surface; (3) a light line at the frunk-lid edge v hides under the lid; (4) raycasting from a pixel is the fastest way to identify what a stray patch in a shot is. Still open: the face lacks sharp bumper corners, and the rear glass/liftgate is too wide.
 - **2026-10-04, #004 fix (user report):** two black "springs" floated ~3 m in front of and behind the car. Cause: the leaf-spring tubes were built at world x = `cx` and then scaled ×3.2 on x (to flatten the leaves), so x became 3.2·cx. Fix: build at x = 0, place with `pos`, then scale. Rule: never scale a mesh whose geometry isn't centred on its own origin.
 - **2026-10-04, #004 fix (user: "check the steering wheel"):** the wheel was tilted +45° (leaning toward the windshield), so the column lay in the wheel's plane instead of entering its centre. Now the wheel axis = the column direction (`rotation.z = -0.73`), rim thicker (16 mm), and the floor-mat "Ford" faces the driver (it read upside-down and mirrored). Rule: derive a wheel/knob orientation from the shaft vector, never a hand-typed angle; check it in a pure side view.
+- **2026-10-04, lessons pass (user asked to learn from the #004 session):** new `tools/sanity.cjs` (stray parts that touch nothing, parts below ground, per-toggle movement), now run by `build.py --check`, which fails on a stray part. It caught the old spring bug when reintroduced (4.07/4.52 m) and found the **Merkava tracks 22 mm below ground** (pads hang 52 mm under link pivots, bottom run at y 0.03). Fixed by lifting the model root (`sys('hull').parent.position.y = 0.022`), because `rockSet` positions the sprung system groups absolutely. New skill `boneh-rechev-vatik-3d` (vintage vehicles); rules added to `boneh-dgamim-3d`, BUILD_GUIDE §5/§6 and `threejs-qa-release/references/eye-point-qa.md`. `.gitignore` now ignores `__pycache__`.
+  - #004 got live steering (`steer` toggle: king-pin group inside the wheel group, steering arm inside it, tie rod slides 0.12·sinθ, steering wheel ×4) and a subtle brass patina. Pitfall: the first patina (blotch alpha 8–30 %) looked dirty, not aged; 2–7 % reads right.

diff --git a/daily-3d-library/models/004-ford-model-t/README.md b/daily-3d-library/models/004-ford-model-t/README.md
@@ -1,6 +1,6 @@
 # #004 Ford Model T Touring (1915, brass era)
 
-דגם פרוצדורלי ב־Three.js (אפס קבצי מודל/תמונות): 164 חלקים בעלי שם ותיאור בעברית, ~112K משולשים, 509 רשתות.
+דגם פרוצדורלי ב־Three.js (אפס קבצי מודל/תמונות): 166 חלקים בעלי שם ותיאור בעברית, ~112K משולשים, 509 רשתות.
 
 ## מה בנוי, לפי מערכת
 - **מרכב:** דפנות גוף על שלד עץ (כולל חריץ לדלתות אחוריות), כנפיים קדמיות ואחוריות (סוויפ לאורך קשת סביב הציר, עם נירות), לוחות דריכה מחורצים, מכסה מנוע דו־חלקי עם תריסים (נפתח בציר באמצע), קאול, קיר אש, ארגזי מושב, שתי לוחיות רישוי.
@@ -10,7 +10,8 @@
 - **רדיאטור:** מעטפת פליז, ראש עם כיתוב Ford, ליבת חלת דבש, פקק, ברז ניקוז, צינורות, מאוורר.
 - **מנוע/הצתה/דלק/תמסורת:** בלוק וראש (15 ברגים), אגן, בוכנות ומוטות מונפשים, גל ארכובה, גלגל תנופה עם 16 מגנטים וסלילי מגנטו, קופסת סלילים, מצתים, קרבורטור, יניקה ופליטה בצד שמאל, ממפלר, מיכל גרביטציה, תיבה פלנטרית עם גלגלי שיניים וסרטי בלימה, צינור מומנט, דיפרנציאל.
 - **שלדה וגלגלים:** אורכי C עם ניטים, קורות, ציר קדמי מסוג I, קפיצי עלים רוחביים, מוטות רדיוס, היגוי, בלמי תוף; ארבעה גלגלי עץ (12 חישורים, פלגה, נאב, פקק פליז, חישוק קלינצ׳ר, צמיג 30×3 / 30×3½) וגלגל חילוף.
-- **כפתורים/מתגים:** hood, doors, top, curtains, windshield, engine, drive, lights.
+- **כפתורים/מתגים:** hood, doors, top, curtains, windshield, engine, drive, lights, steer (ההגה מסובב את הגלגלים הקדמיים על הקינגפין, ומוט החיבור זז).
+- **פטינה:** הפליז מקבל כתמי פטינה עדינים וחספוס משתנה.
 
 ## מספרים
 בסיס גלגלים 2.54 מ׳, מסלול 1.42 מ׳, צמיג 30 אינץ׳ (R=0.381), אורך ≈3.4–3.5 מ׳.

diff --git a/daily-3d-library/BUILD_GUIDE.md b/daily-3d-library/BUILD_GUIDE.md
@@ -80,12 +80,21 @@ What was modelled per system, the numbers used, sources, and open issues or know
 - **Nothing may float.** The wheel crest was a flat disc over a domed cap, so it looked like it hung in the air. Seat decals on flat faces or in a bezel, and close lathe profiles down to r = 0.
 - **`G.extrude` with a bevel grows the outline by the bevel size.** Pass `bevelOffset: -bevel` when other parts are positioned against that outline (the dash buried its own screens by 2 cm).
 
+- **Never scale a mesh whose geometry is not centred on its own origin.** The Model T leaf springs were built at x = 1.4 and scaled ×3.2 on x, so they landed 3 m from the car. Build at 0, place with `pos`, then scale.
+- **Derive the orientation of wheels, levers and knobs from their shaft vector**, never a hand-typed angle (the Model T steering wheel leaned +45° toward the windshield instead of −42°). Check it in a pure side view.
+- **Check hinge directions in numbers.** The Model T hood opened inwards twice because of a sign error; `tools/sanity.cjs` prints what every toggle moves and where.
+- **Check every piece of lettering from where a person reads it** (the driver's seat, in front of the plate). The floor-mat "Ford" was upside down and mirrored from the seat.
+- **Identify anything you can't name in a QA shot before moving on.** The floating springs were visible in the first shots and were dismissed as studio decoration.
+
 ## 6. Verify
 
 ```bash
 python3 build.py --check                   # must print "ok" for the new model (no console errors)
+node tools/sanity.cjs <NNN-slug>           # stray parts (touching nothing), parts below ground, what each toggle moves; also run by build.py --check
 node tools/check.cjs --qa <NNN-slug>       # writes models/<id>/shots/*.png: front, side, rear, top, under, explode, xray, cut, open, night + custom views
 ```
+
+Then shoot "human-eye" views with `tools/shot.cjs` before sending: the driver's seat, a pure side view of the steering wheel, a wheel close-up, every opening part opened, and every piece of lettering from where it is read.
 
 Look at every QA shot (Read the PNGs). Fix anything floating, intersecting, upside-down or mirrored, then re-run.
 

diff --git a/.agents/skills/threejs-qa-release/references/eye-point-qa.md b/.agents/skills/threejs-qa-release/references/eye-point-qa.md
@@ -16,3 +16,16 @@ Overview shots passed while the user immediately found four defects in close-ups
 - Flicker or streaks: shells closer than 8 mm.
 - UI: the panel must not cover the title on a 390 px phone; the camera has to back off in portrait so the whole model fits; no `null` text from `Element.append(null)` (filter children first).
 - Toggles: when the harness resets toggles between shots, restore each toggle's *initial* state (e.g. flags default on), and apply a view's own toggles (open the hood for an engine view) *after* the reset.
+
+## Lessons from the Ford Model T (2026-10-04)
+The user found two more defects that wide shots hid, and both were visible in the QA shots all along:
+- **Stray parts:** two leaf springs floated 3 m in front of and behind the car (a mesh built away from its origin, then scaled). They were *seen* in the shots and dismissed as studio props. Rule: identify every object you can't name before moving on (raycast from the pixel, or list the meshes near that point).
+- **Axis orientation:** the steering wheel leaned toward the windshield; the column lay in the wheel's plane. Derive the orientation from the shaft vector and check it in a pure side view.
+- **Hinge direction:** a hood half opened *inwards*. Print each moving part's world bounding box before and after the toggle instead of judging from a shot.
+
+Automated geometric pass (works for any Three.js scene with named groups; the reference script is `daily-3d-library/tools/sanity.cjs`):
+1. Group meshes by their nearest named ancestor and compute a world `Box3` per group.
+2. **Stray:** a group whose box is farther than ~0.4 m (scale to the scene) from every other group's box.
+3. **Below ground:** box `min.y` < −0.01 for objects that should rest on the floor.
+4. **Toggles / state changes:** apply each one, re-measure, and print the groups that moved with their centre shift; a sign error shows up as a shift toward the inside.
+In a game, run the same pass on the level geometry and on spawned props after a state change.
